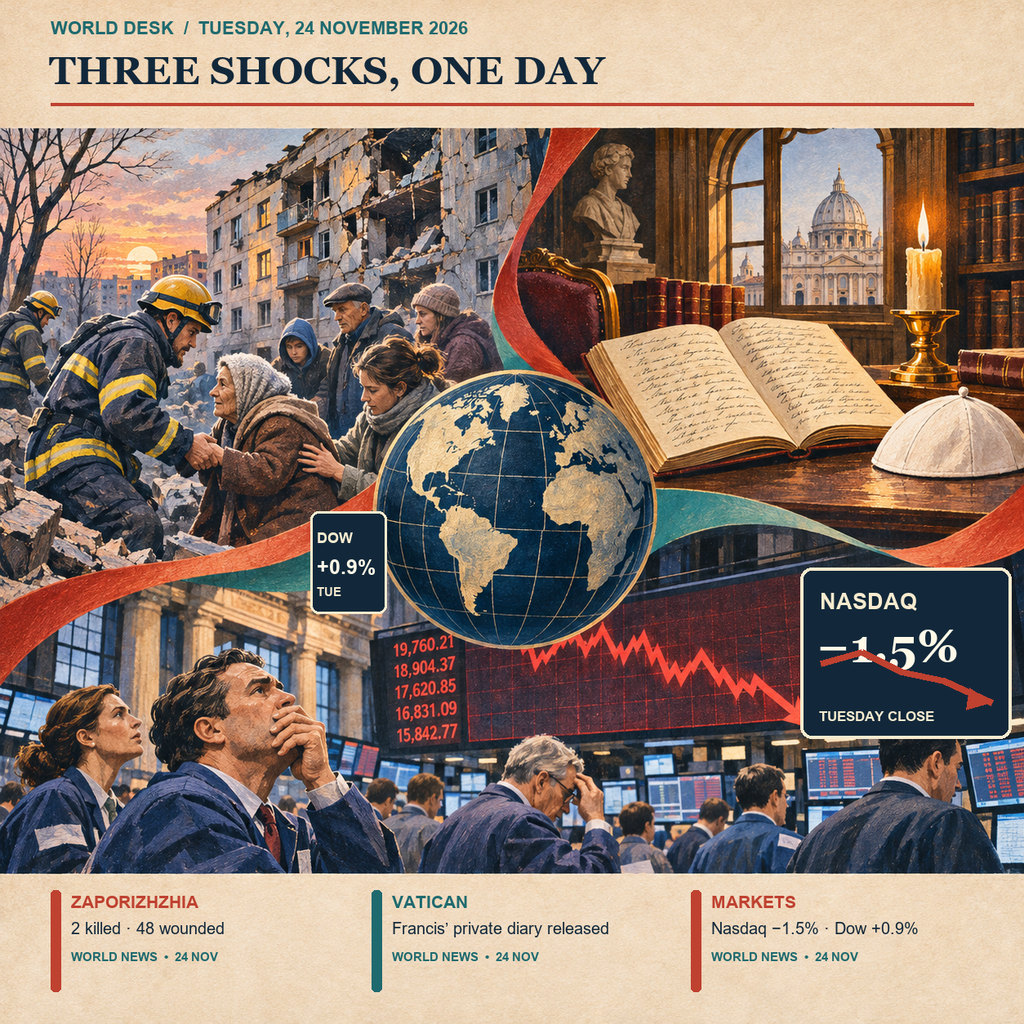
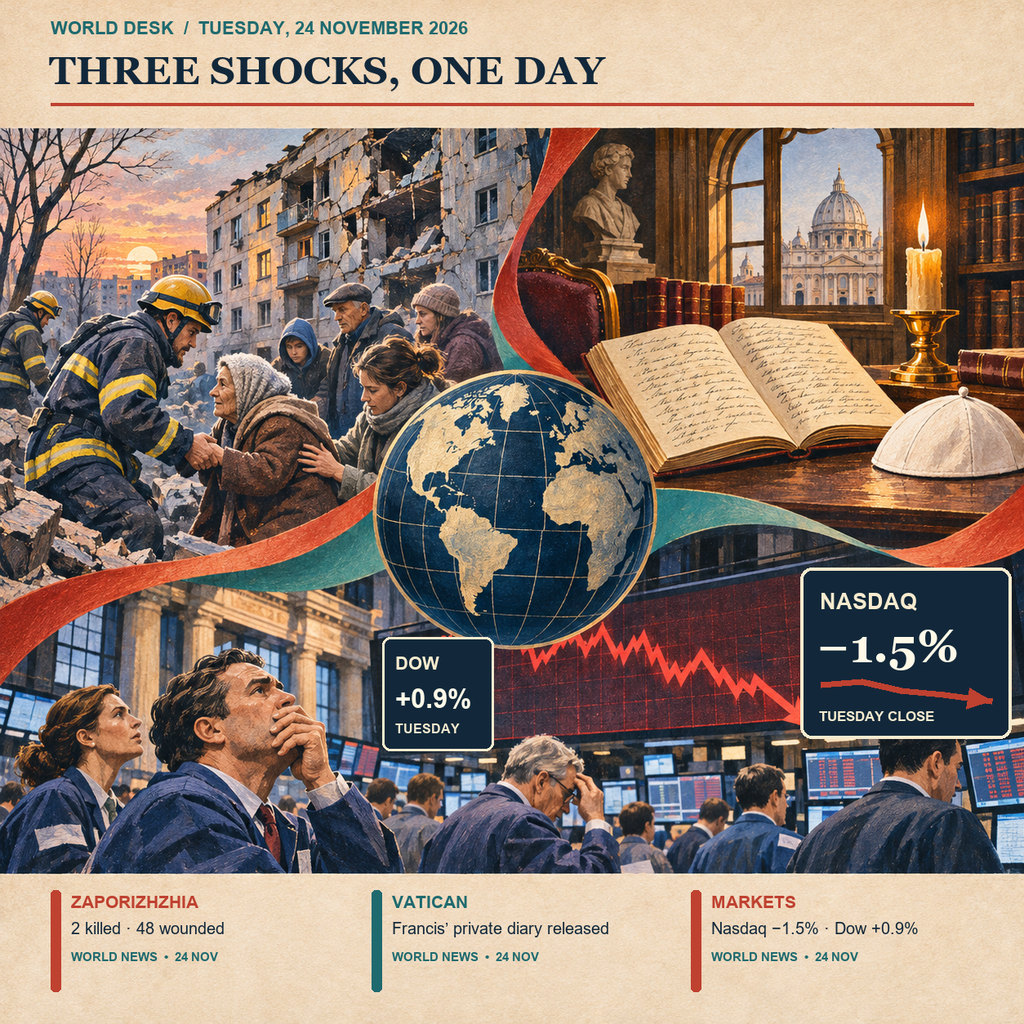
Polish factual labels and market callouts

Changed region(s): [[0.2812, 0.5, 0.5, 0.75], [0.8125, 0.625, 0.9688, 0.6875]]

diff --git a/render.py b/render.py
@@ -19,15 +19,15 @@ def f(path, size): return ImageFont.truetype(path, size)
 draw.rounded_rectangle((980, 695, 1238, 904), radius=14, fill=navy, outline=cream, width=4)
 draw.text((1004, 721), 'NASDAQ', font=f(sans_bold, 27), fill=cream)
 draw.text((1000, 757), '−1.5%', font=f(font_bold, 58), fill=white)
-draw.line((1005, 812, 1055, 798, 1103, 822, 1155, 833, 1214, 860), fill=red, width=8)
-draw.polygon([(1214, 860), (1187, 842), (1183, 869)], fill=red)
+draw.line((1005, 838, 1055, 834, 1103, 845, 1155, 850, 1214, 858), fill=red, width=8)
+draw.polygon([(1214, 858), (1187, 842), (1183, 868)], fill=red)
 draw.text((1003, 867), 'TUESDAY CLOSE', font=f(sans_bold, 17), fill=cream)
 
 # Replace the generated, decorative ticker digits with a truthful Dow callout.
-draw.rounded_rectangle((380, 626, 473, 751), radius=10, fill=navy, outline=cream, width=3)
-draw.text((388, 648), 'DOW', font=f(sans_bold, 18), fill=cream)
-draw.text((388, 680), '+0.9%', font=f(sans_bold, 25), fill=white)
-draw.text((388, 716), 'TUE', font=f(sans_bold, 15), fill=cream)
+draw.rounded_rectangle((468, 780, 604, 919), radius=10, fill=navy, outline=cream, width=3)
+draw.text((484, 800), 'DOW', font=f(sans_bold, 22), fill=cream)
+draw.text((484, 837), '+0.9%', font=f(sans_bold, 33), fill=white)
+draw.text((484, 883), 'TUESDAY', font=f(sans_bold, 16), fill=cream)
 
 # Date and headline in the reserved paper band.
 draw.text((62, 22), 'WORLD DESK  /  TUESDAY, 24 NOVEMBER 2026', font=f(sans_bold, 22), fill=teal)
@@ -50,4 +50,5 @@ for x, (head, sub, accent) in zip(cols, labels):
 im = im.resize((1024, 1024), Image.Resampling.LANCZOS)
 im.save(root / 'entry.png', 'JPEG', quality=86, optimize=True, progressive=True, subsampling=0)
 print('wrote', im.size, (root / 'entry.png').stat().st_size, 'bytes')
+
 
